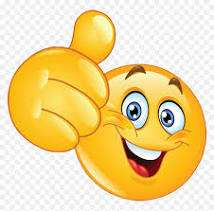
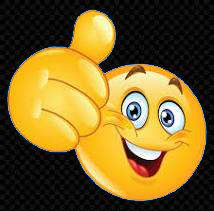
Add files via upload

diff --git a/style.css b/style.css
@@ -1,12 +1,26 @@
 body {
-    background-image: url("images-2.jpg");
+    height: 100vh;
+    margin: 0;
+}
+#container{
+    position: absolute;
+    top: 0px;
+    left: 0px;
+    width: 100%;
+    height: 100%;
+
     display: flex;
     justify-content: space-evenly;
     align-items: center;
     height: 100vh;
-    width: 100vh;
     margin: 0;
-    background-size: cover;
+}
+img{
+    position: absolute;
+    top: 0px;
+    left: 0px;
+    width: 100%;
+    height: 100%;
 }
 button {
     padding: 10px 20px;

diff --git a/index.html b/index.html
@@ -6,7 +6,10 @@
   <script src="script.js"></script>
 </head>
 <body>
-  <button id="twitch" onclick="openTwitch()">Twitch</button>
-  <button id="odp" onclick="openODP()">ODP</button>
+  <img src="images-2.jpg" alt="">
+  <div id="container">
+    <button id="twitch" onclick="openTwitch()">Twitch</button>
+    <button id="odp" onclick="openODP()">Button 2</button>
+  </div>
 </body>
 </html>

diff --git a/script.js b/script.js
@@ -2,5 +2,5 @@ function openTwitch() {
   window.open('https://twitch.tv/NotLe0nard', '_blank');
 }
 function openODP() {
-  window.open('https://kappa.lol/nnF7T', '_blank');
+  window.open('https://www.youtube.com/watch?v=dQw4w9WgXcQ', '_blank');
 }
